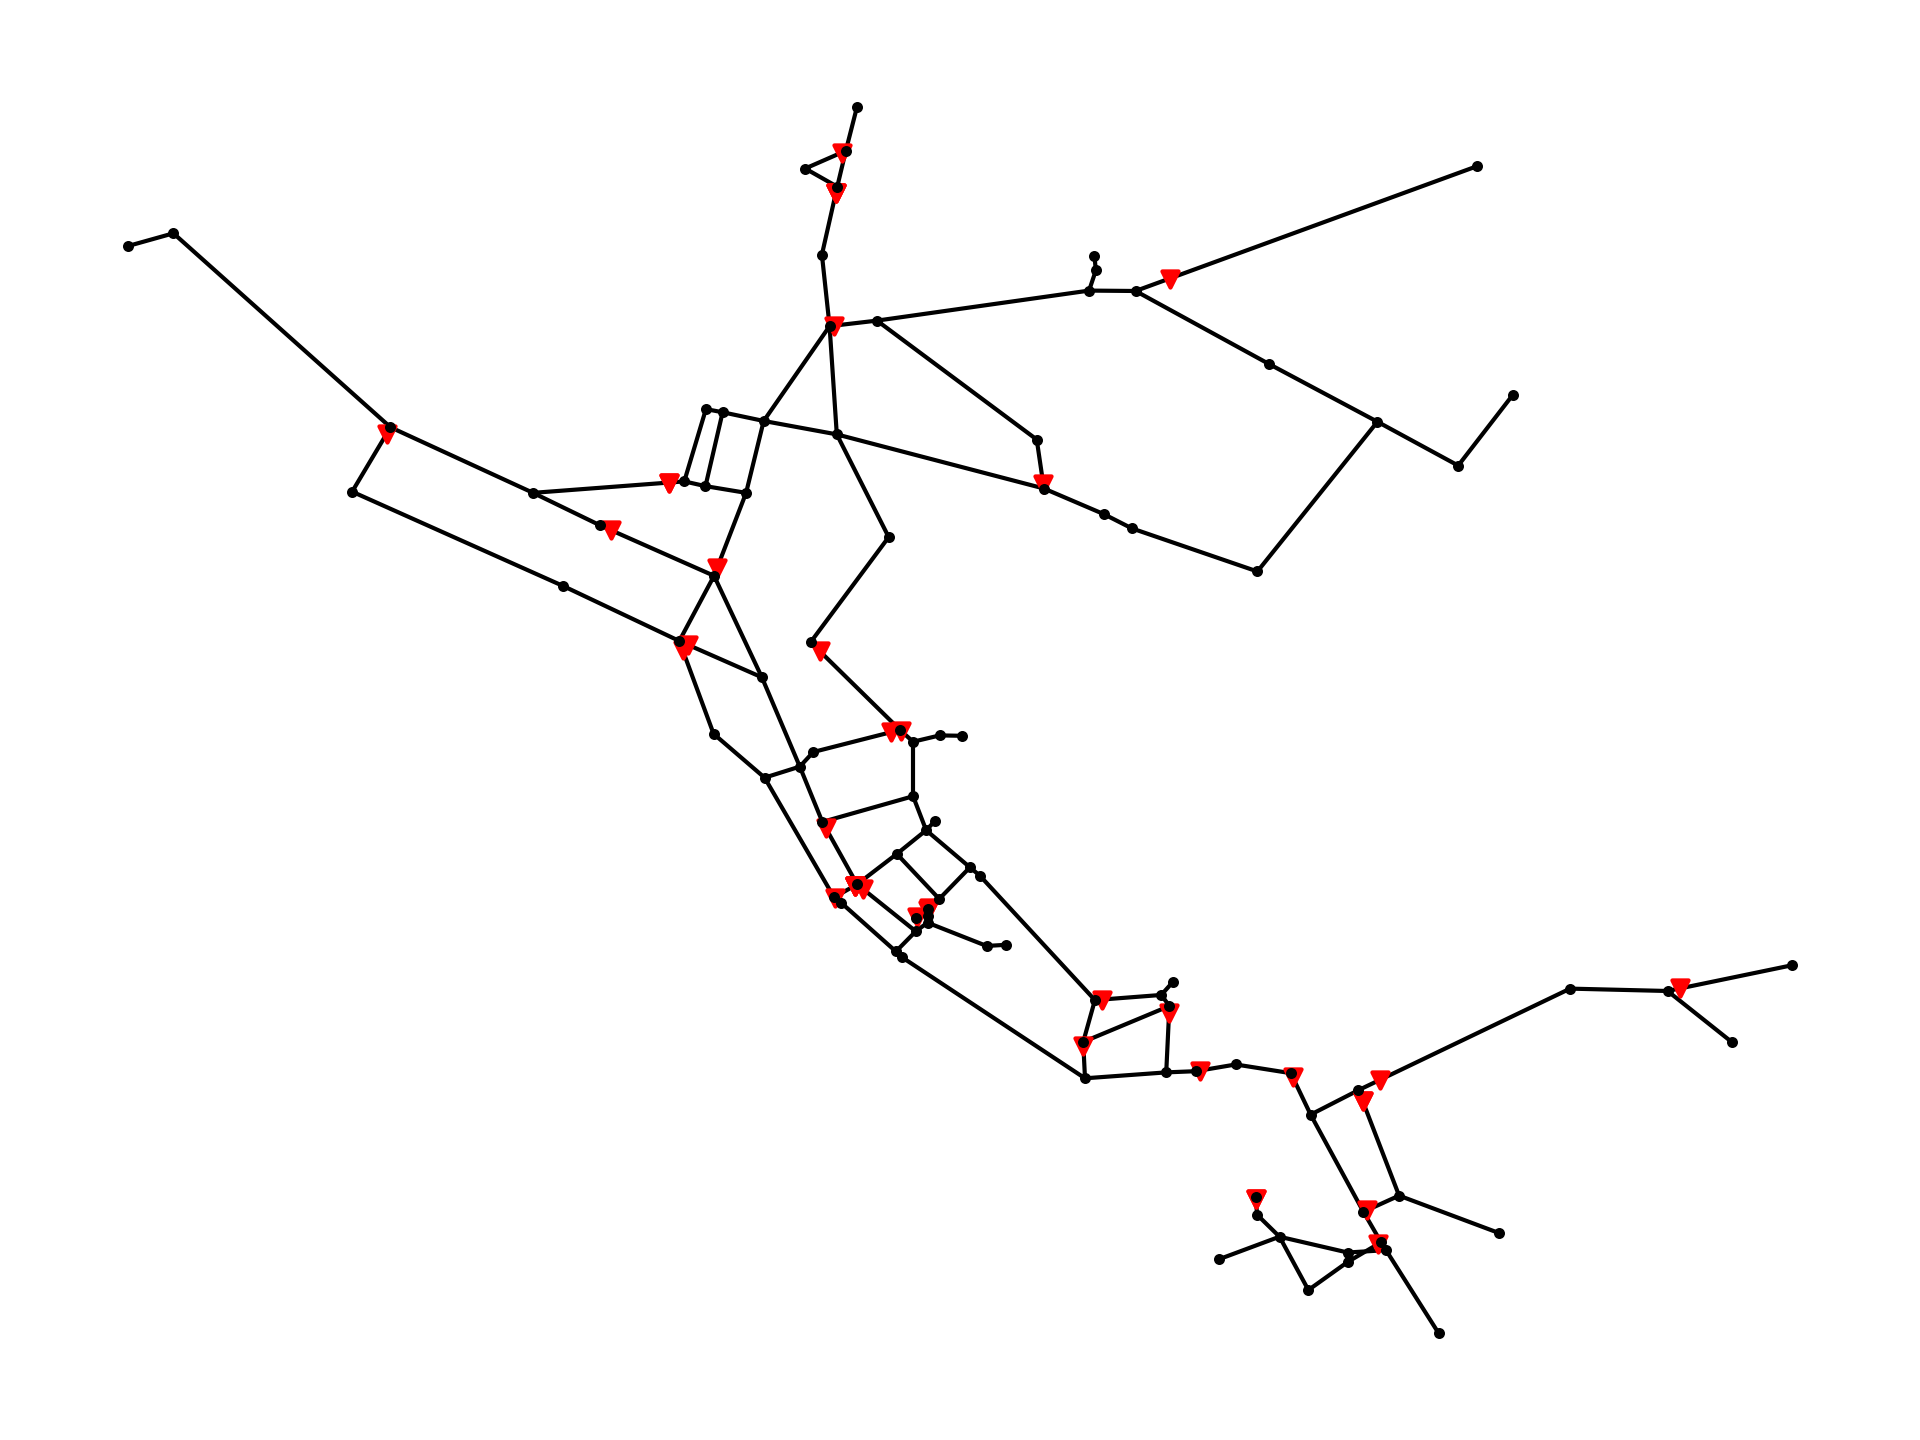
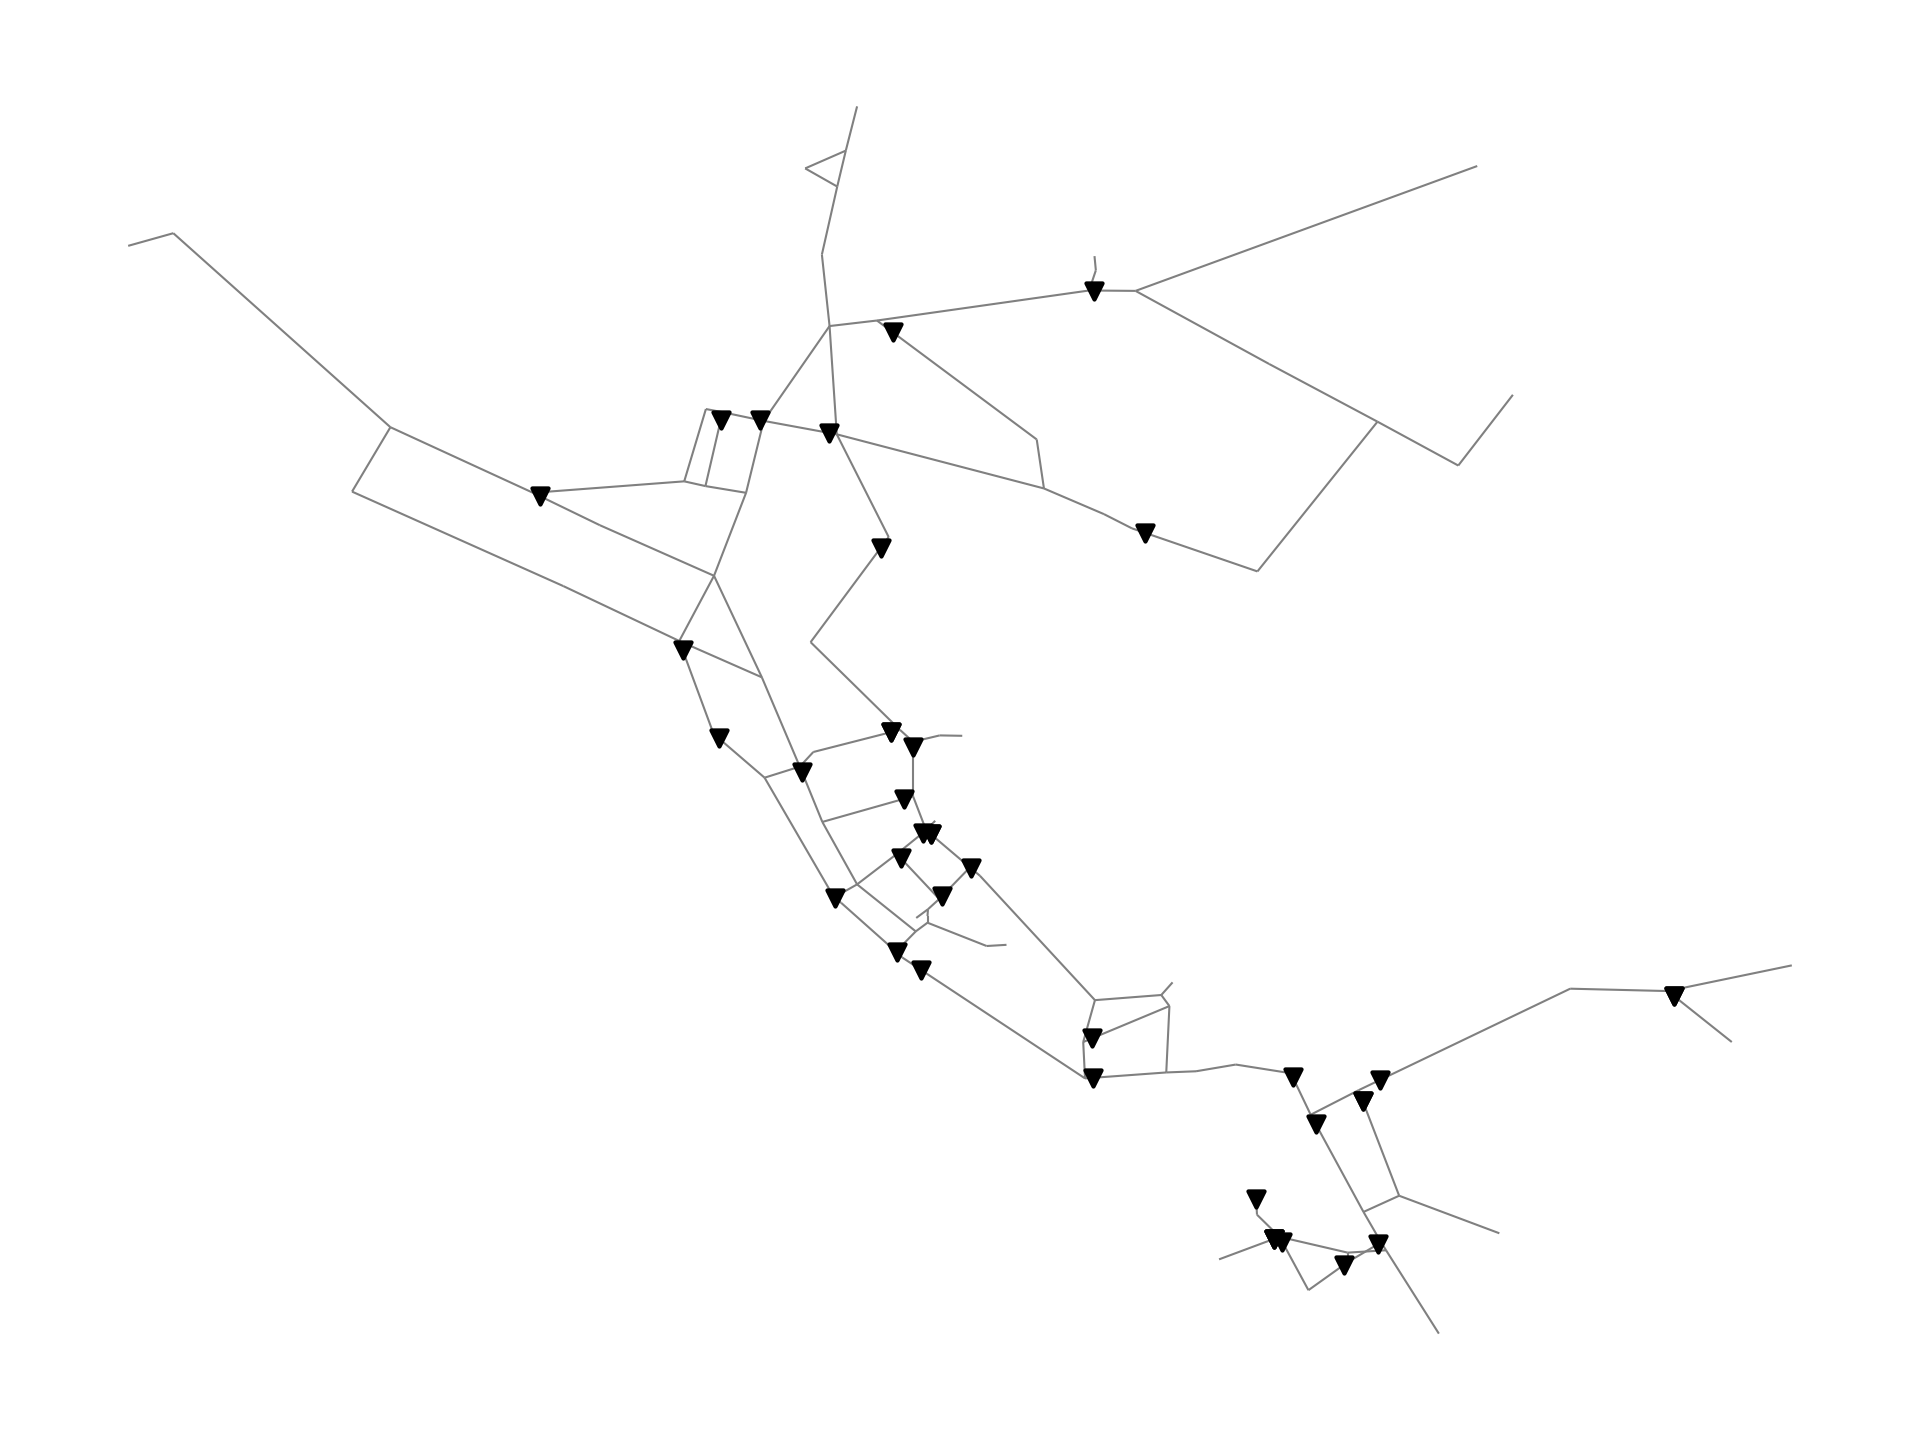
Updated docs and release notes

diff --git a/documentation/graphics.rst b/documentation/graphics.rst
@@ -2,21 +2,24 @@
 
     \clearpage
 
+.. _graphics
+
 .. doctest::
     :hide:
 
     >>> import wntr
+    >>> import numpy as np
     >>> import matplotlib.pylab as plt
     >>> try:
     ...    wn = wntr.network.model.WaterNetworkModel('../examples/networks/Net3.inp')
     ... except:
     ...    wn = wntr.network.model.WaterNetworkModel('examples/networks/Net3.inp')
-	
+
 Graphics
 ======================================
 
 WNTR includes several functions to plot water network models and to plot 
-fragility and pump curves.
+fragility, pump curves, tank curves, and valve layers.
 
 Networks
 --------------------
@@ -37,8 +40,8 @@ Node and link attributes can be specified using the following options:
 * List of node/link names (i.e., ``['123', '199']``), this highlights the node or link in red
 
 The following example plots the network along with node elevation (:numref:`fig-network-2`).
-Note that the :class:`~wntr.graphics.network.plot_network` function returns matplotlib objects 
-for the network nodes and edges, which can be further customized by the user.
+Note that the :class:`~wntr.graphics.network.plot_network` function returns a matplotlib axes object
+which can be further customized by the user.
 
 .. doctest::
     :hide:
@@ -50,7 +53,7 @@ for the network nodes and edges, which can be further customized by the user.
     >>> import wntr # doctest: +SKIP
 	
     >>> wn = wntr.network.WaterNetworkModel('networks/Net3.inp') # doctest: +SKIP
-    >>> nodes, edges = wntr.graphics.plot_network(wn, node_attribute='elevation', 
+    >>> ax = wntr.graphics.plot_network(wn, node_attribute='elevation', 
     ...    node_colorbar_label='Elevation (m)')
 
 .. doctest::
@@ -145,8 +148,6 @@ If desired, the network can be plotted with a blank background as well (:numref:
    :alt: Network-blank-background
 
    Interactive leaflet network graphic with blank background.
-
-
 
 Network animation
 ----------------------
@@ -339,4 +340,68 @@ level of the tank is included in the figure.
    :alt: Tank curve and profile
 
    Tank curve and profile graphic.
+
+Valve layers and segments
+--------------------------
+
+Valve layers and valve segment attributes can be plotted using the 
+function :class:`~wntr.graphics.curve.plot_valve_layer`.
+The following example starts by generating a valve layer and valve segments. 
+The valves and valve segments are plotted on the network (:numref:`fig-valve_segment`). 
+
+.. doctest::
+    :hide:
+    
+    >>> fig = plt.figure()
+    
+.. doctest::
+
+    >>> valve_layer = wntr.network.generate_valve_layer(wn, 'strategic', 2, seed=123)
+    >>> G = wn.get_graph()   
+    >>> node_segments, link_segments, seg_sizes = wntr.metrics.topographic.valve_segments(G, valve_layer)
+    >>> N = seg_sizes.shape[0] 
+    >>> cmap = wntr.graphics.random_colormap(N) # random color map helps view segments
+    >>> ax = wntr.graphics.plot_network(wn, link_attribute=link_segments, node_size=0, link_width=2,
+    ...     node_range=[0,N], link_range=[0,N], node_cmap=cmap, link_cmap=cmap, 
+    ...     link_colorbar_label='Segment')
+    >>> ax = wntr.graphics.plot_valve_layer(wn, valve_layer, add_colorbar=False, include_network=False, ax=ax)
+
+.. doctest::
+    :hide:
+
+    >>> plt.tight_layout()
+    >>> plt.savefig('plot_valve_segment.png', dpi=300)
+
+.. _fig-valve_segment:
+.. figure:: figures/plot_valve_segment.png
+   :width: 800
+   :alt: Valve segment attributes
+
+   Valves layer and segments.
    
+.. doctest::
+    :hide:
+    
+    >>> fig = plt.figure()
+	
+Valve segment attributes are then computed and the number of 
+valves surrounding each valve is plotted on the network
+(:numref:`fig-valve_segment_attributes`).  
+
+    >>> valve_attributes = wntr.metrics.valve_segment_attributes(valve_layer, node_segments, 
+    ...     link_segments)
+    >>> ax = wntr.graphics.plot_valve_layer(wn, valve_layer, valve_attributes['num_surround'], 
+    ...     colorbar_label='Surrounding valves')
+
+.. doctest::
+    :hide:
+
+    >>> plt.tight_layout()
+    >>> plt.savefig('plot_valve_segment_attributes.png', dpi=300)
+    
+.. _fig-valve_segment_attributes:
+.. figure:: figures/plot_valve_segment_attributes.png
+   :width: 800
+   :alt: Valve segment attributes
+
+   Valve segment attribute showing the number of valves surrounding each valve.

diff --git a/documentation/resilience.rst b/documentation/resilience.rst
@@ -121,11 +121,11 @@ WNTR includes additional topographic metrics to help compute resilience.
                                           Valve segmentation returns a segment number for each node and link, along with
                                           the number of nodes and links in each segment. 
 
-   Valve criticality                 	  Valve criticality valve is defined as the number of valves necessary to isolate a given valve.
-
-   Valve criticality length               Valve criticality length is defined as the ratio of link lengths in each segment on either side of a given isolation valve. If both sides of the valve are in the same segment, the criticality is set to zero.
-
-   Valve criticality demand               Valve criticality demand is defined as the ratio of node demands in each segment on either side of a given isolation valve. If both sides of the valve are in the same segment, the criticality is set to zero.							  
+   Valve segment attributes               Valve segment attributes include the number of valves surrounding each valve 
+                                          and (optionally) the ratio of node demands on either side each valve and 
+                                          the ratio of the segment lengths on either side each valve. If both sides 
+                                          of the valve are in the same segment, the attribute is set to zero.
+						  
    =====================================  ================================================================================================================================================
 
 .. doctest::
@@ -221,25 +221,14 @@ use NetworkX directly, while others use metrics included in WNTR.
 	  >>> node_segments, link_segments, segment_size = wntr.metrics.valve_segments(G, 
 	  ...     valve_layer)
 
-* Valve criticality
+* Valve segment attributes
 
   .. doctest::
-	
-	  >>> valve_crit = wntr.metrics.valve_criticality(valve_layer, node_segments, link_segments)
 
-* Valve criticality length
-
-  .. doctest::
-	
-	  >>> link_lengths = wn.query_link_attribute('length')
-	  >>> valve_crit_length = wntr.metrics.valve_criticality_length(link_lengths, valve_layer, node_segments, link_segments)
-
-* Valve criticality demand 
-
-  .. doctest::
-	
-	  >>> node_demands = wn.query_node_attribute('base_demand')
-	  >>> valve_crit_demand = wntr.metrics.valve_criticality_demand(node_demands, valve_layer, node_segments, link_segments)
+      >>> average_expected_demand = wntr.metrics.average_expected_demand(wn)
+      >>> link_lengths = wn.query_link_attribute('length')
+      >>> valve_attributes = wntr.metrics.valve_segment_attributes(valve_layer, node_segments, 
+      ...     link_segments, average_expected_demand, link_lengths)
 
 ..
 	Clustering coefficient: Clustering coefficient is the ratio between the total number of triangles and 

diff --git a/documentation/layers.rst b/documentation/layers.rst
@@ -15,6 +15,13 @@ Valve layer
 
 While valves are typically included in the water network model, the user can also define a valve layer to be used in additional analysis.
 A valve layer can be used to group links and nodes into segments based on the location of isolation valves.
+The segments can be used to compute valve layer attributes, including 
+the number of valves surrounding each valve,
+the ratio of node demands on either side each valve, and 
+the ratio of the segment lengths on either side each valve                                     
+See :ref:`topographic_metrics` for more details.
+An example is included in the :ref:`graphics` section.
+
 In a valve layer, the location of each valve is defined using the link the valve is installed on 
 and the node the valve protects. This information is stored in a pandas DataFrame, which is indexed by valve 
 number with columns named 'link' and 'node.'
@@ -66,8 +73,7 @@ The valve layer can be included in water network graphics (:numref:`fig-random-v
     2  283  239
     3  295  249
     4  303  257
-    >>> nodes, edges = wntr.graphics.plot_network(wn, node_size=7, 
-    ...     valve_layer=random_valve_layer)
+    >>> ax = wntr.graphics.plot_valve_layer(wn, random_valve_layer, add_colorbar=False)
     
 .. doctest::
     :hide:
@@ -91,8 +97,7 @@ The valve layer can be included in water network graphics (:numref:`fig-strategi
 .. doctest::
 
     >>> strategic_valve_layer = wntr.network.generate_valve_layer(wn, 'strategic', 2)
-    >>> nodes, edges = wntr.graphics.plot_network(wn, node_size=7, 
-    ...     valve_layer=strategic_valve_layer)
+    >>> ax = wntr.graphics.plot_valve_layer(wn, strategic_valve_layer, add_colorbar=False)
     
 .. doctest::
     :hide:

diff --git a/documentation/whatsnew/v0.3.1.rst b/documentation/whatsnew/v0.3.1.rst
@@ -18,6 +18,19 @@ v0.3.1 (dev branch)
 * Added a `convert_controls_to_rules` method on the water network model.  In some instances, mixing controls and rules has unexpected consequences.  
   By converting all controls to rules, the user can specify the priority for each rule. 
   
+* Added a function to compute valve segment attributes from a valve layer (`valve_segment_attributes`).  This includes 
+  the number of valves surrounding each valve,
+  the ratio of node demands on either side each valve, and 
+  the ratio of the segment lengths on either side each valve.  
+  
+* Added graphics options to plot valve layers and valve segment attributes (`plot_valve_layer`).
+  Removed options in `plot_network` that plot valve layers.
+  
+* Added a function to generate a randomly ordered colormap (`random_colormap`).  Updated `custom_colormap` so that the number of bins is not an optional argument.
+
+* Changed `plot_network` to return a matplotlib axes object rather than networkx nodes and edges objects. 
+  This helps use the axes to layer additional data (such as valve segment attributes).
+
 * Suppressed the OptimizeWarning from scipy.optimize that often occurs when fitting a pump curve.  
   This is not an error.
 

diff --git a/documentation/morph.rst b/documentation/morph.rst
@@ -136,9 +136,9 @@ approximately 3000 to approximately 1000 (:numref:`fig-skel-example`).
     {'Nodes': 1154, 'Links': 1610, 'Patterns': 3, 'Curves': 60, 'Sources': 0, 'Controls': 124}
     
     >>> fig, (ax1, ax2) = plt.subplots(1, 2, figsize=(10,5))
-    >>> nodes, edges = wntr.graphics.plot_network(wn, node_size=10, title='Original', 
+    >>> ax = wntr.graphics.plot_network(wn, node_size=10, title='Original', 
     ...     ax=ax1) 
-    >>> nodes, edges = wntr.graphics.plot_network(skel_wn, node_size=10, 
+    >>> ax = wntr.graphics.plot_network(skel_wn, node_size=10, 
     ...     title='Skeletonized', ax=ax2)
 
 .. doctest::

diff --git a/documentation/stochastic.rst b/documentation/stochastic.rst
@@ -134,7 +134,7 @@ To plot the damage state on the network, the state (i.e., Major) can be converte
     >>> priority_map = FC.get_priority_map()
     >>> damage_value = damage_state.map(priority_map)
     >>> custom_cmp = wntr.graphics.custom_colormap(3, ['grey', 'royalblue', 'darkorange'])
-    >>> nodes, edges = wntr.graphics.plot_network(wn, link_attribute=damage_value, 
+    >>> ax = wntr.graphics.plot_network(wn, link_attribute=damage_value, 
     ...     node_size=0, link_width=2, link_cmap=custom_cmp, 
     ...     title='Damage state: 0=None, 1=Minor, 2=Major') 
    

diff --git a/documentation/networkxgraph.rst b/documentation/networkxgraph.rst
@@ -74,7 +74,7 @@ The graph can be used to access NetworkX methods, for example:
 	
     >>> node_degree = G.degree()
     >>> closeness_centrality = nx.closeness_centrality(G)
-    >>> nodes, edges = wntr.graphics.plot_network(wn, node_attribute=closeness_centrality)
+    >>> ax = wntr.graphics.plot_network(wn, node_attribute=closeness_centrality)
 
 See :ref:`topographic_metrics` for more information.
 

diff --git a/documentation/waternetworkmodel.rst b/documentation/waternetworkmodel.rst
@@ -293,7 +293,7 @@ water network model.
     >>> wn.add_reservoir('res', base_head=125, head_pattern='pat1', coordinates=(0,2))
     >>> wn.add_pipe('pipe2', 'node1', 'res', length=100, diameter=0.3048, roughness=100, 
     ...     minor_loss=0.0, status='OPEN')
-    >>> nodes, edges = wntr.graphics.plot_network(wn)
+    >>> ax = wntr.graphics.plot_network(wn)
 
 .. doctest::
     :hide:

diff --git a/documentation/disaster_models.rst b/documentation/disaster_models.rst
@@ -83,7 +83,7 @@ The earthquake properties can be plotted on the network using the following exam
     
 .. doctest::
 
-    >>> nodes, edges = wntr.graphics.plot_network(wn, link_attribute=pga, node_size=4,
+    >>> ax = wntr.graphics.plot_network(wn, link_attribute=pga, node_size=4,
     ...     link_width=2, link_colorbar_label='PGA (g)')
 
 .. doctest::

diff --git a/documentation/resultsobject.rst b/documentation/resultsobject.rst
@@ -170,7 +170,7 @@ plotted in a similar manner.
     
 .. doctest::
 
-    >>> nodes, edges = wntr.graphics.plot_network(wn, node_attribute=pressure_at_1hr, 
+    >>> ax = wntr.graphics.plot_network(wn, node_attribute=pressure_at_1hr, 
     ...    node_range=[30,55], node_colorbar_label='Pressure (m)')
 
 .. doctest::
